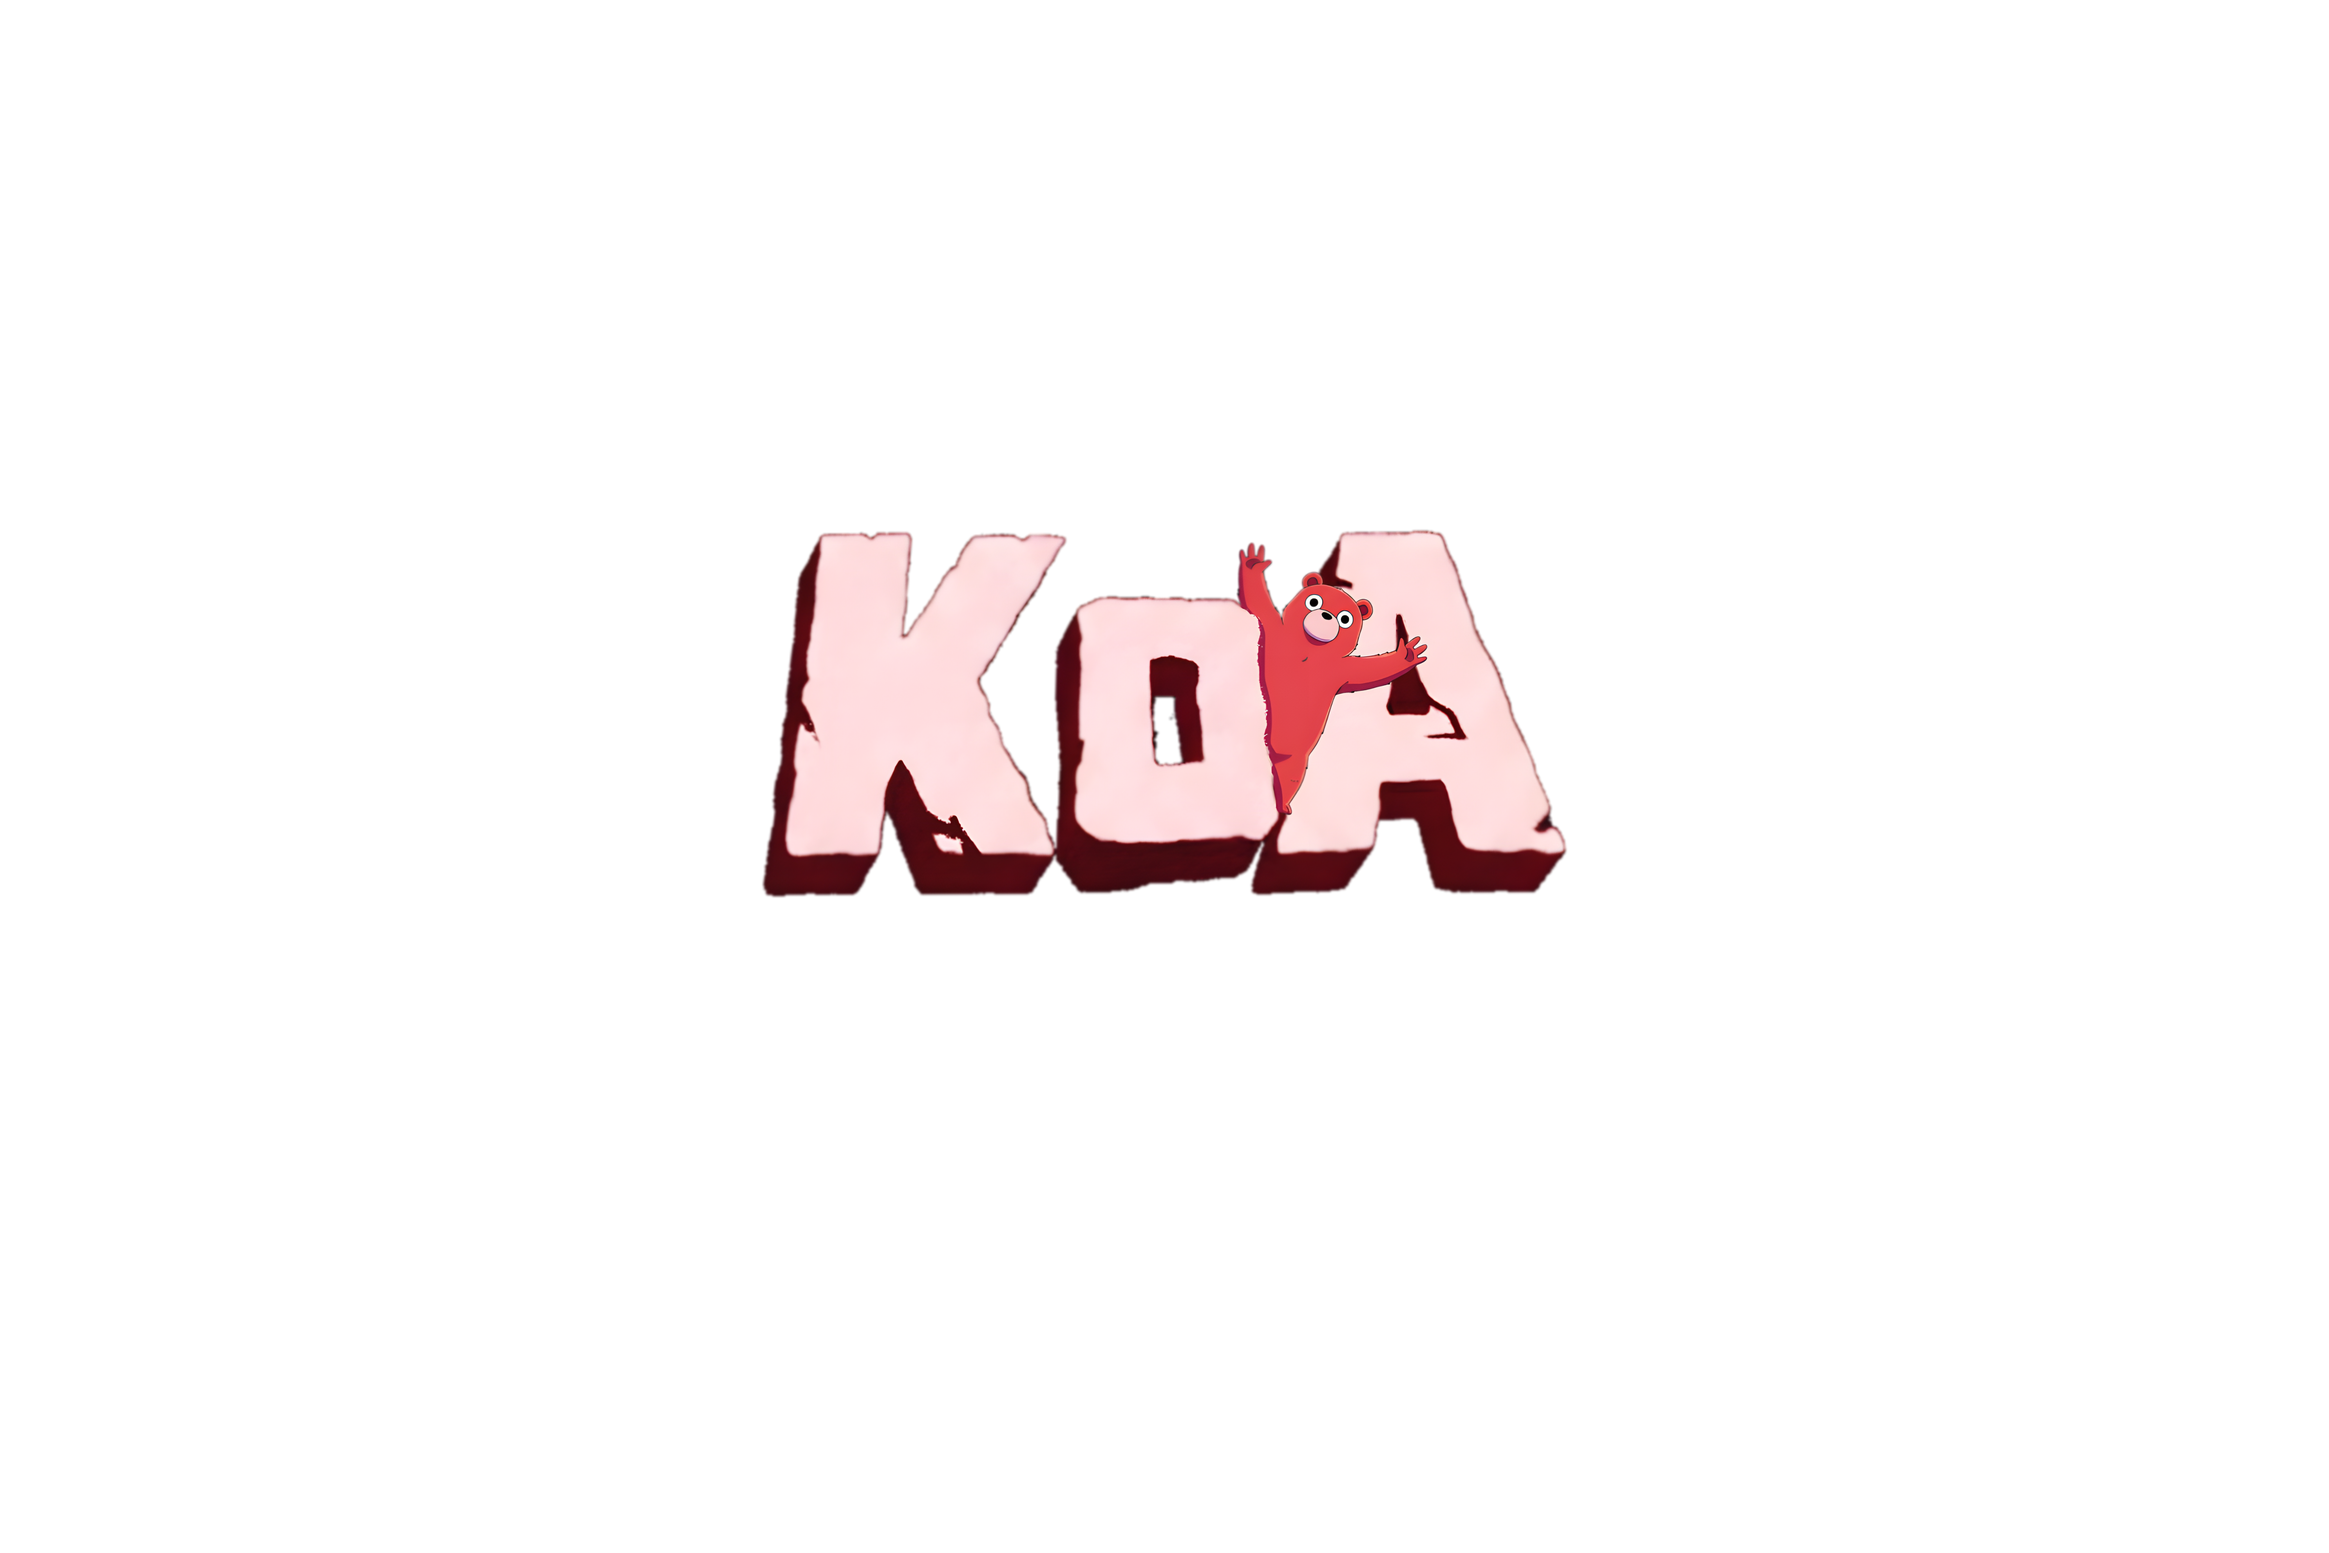
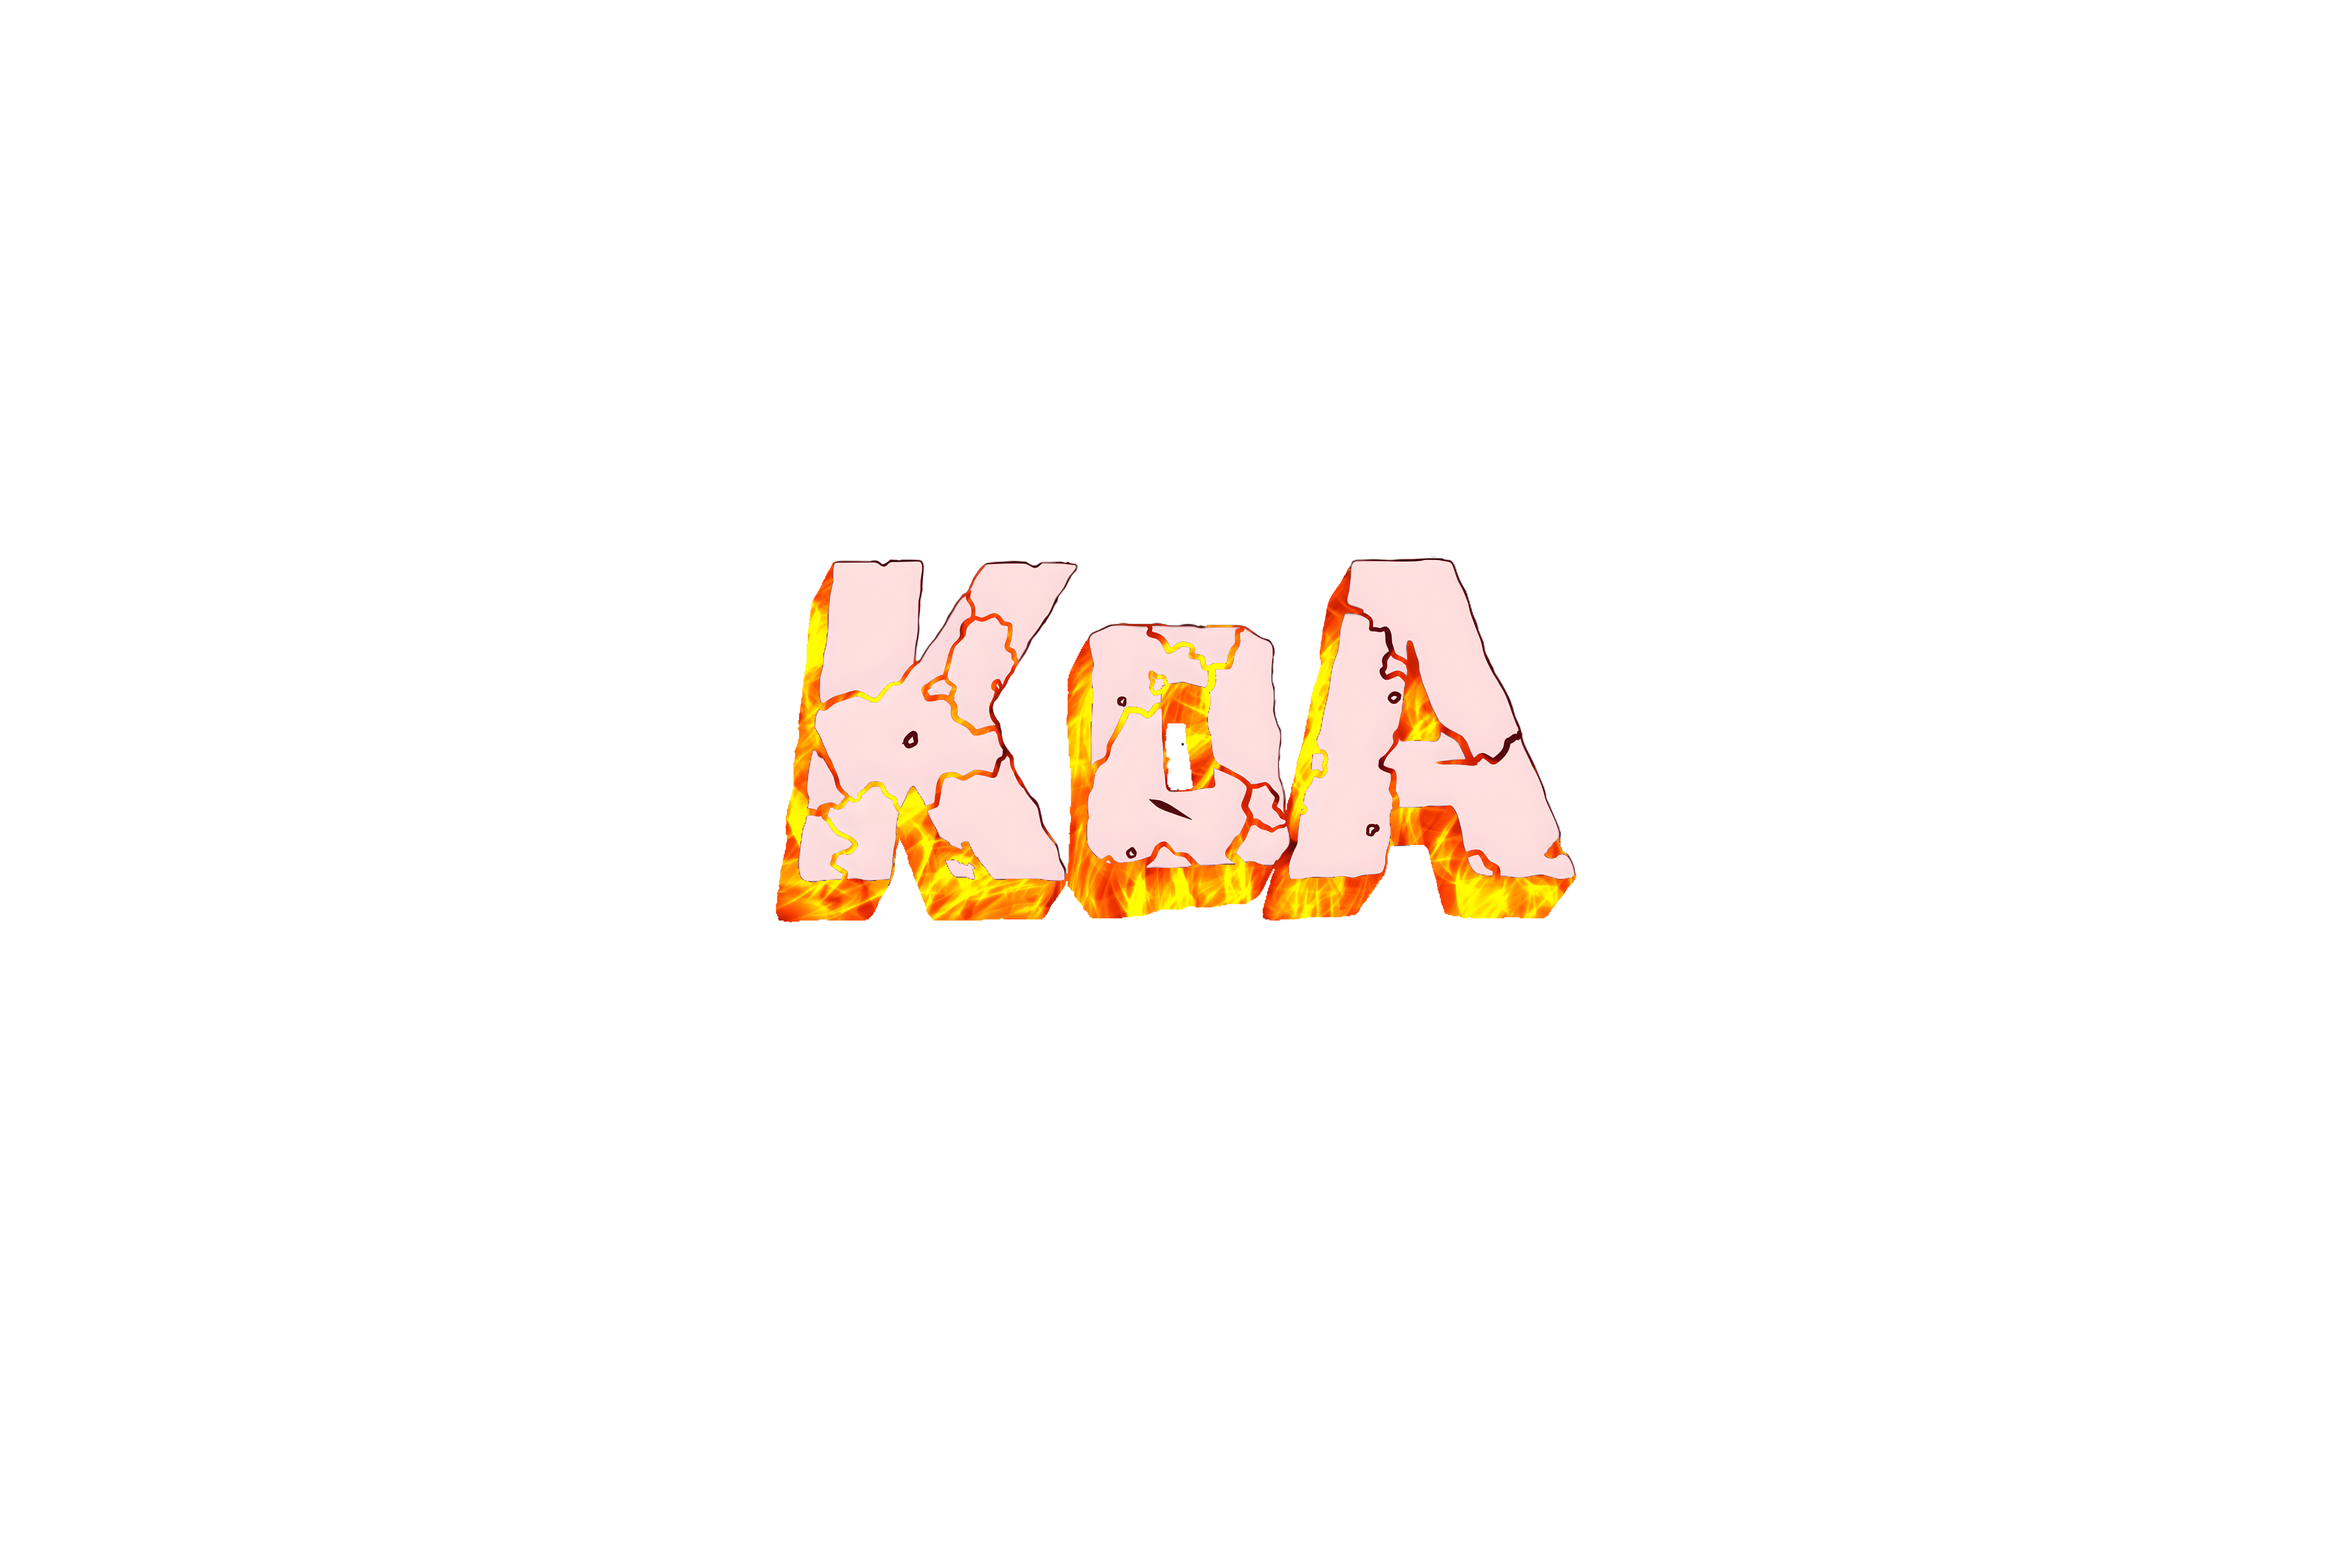
feat: Refactor Navbar, Marquee, and Preloader animation logic

Changed region(s): [[0.3125, 0.3427, 0.6875, 0.5919]]

diff --git a/src/components/Preloader.tsx b/src/components/Preloader.tsx
@@ -4,37 +4,47 @@ import { useEffect, useRef, useState } from "react";
 export default function Preloader() {
 	const [visible, setVisible] = useState(true);
 	const preloaderRef = useRef<HTMLDivElement>(null);
-	const contentRef = useRef<HTMLDivElement>(null);
 
 	useEffect(() => {
 		const preloader = preloaderRef.current;
 		if (!preloader) return;
 
-		const images = Array.from(
-			preloader.querySelectorAll("img.masked-image"),
-		) as HTMLImageElement[];
 		const letterContainers = Array.from(
 			preloader.querySelectorAll(".letter-container"),
 		) as HTMLElement[];
 
+		// Images to preload
+		const imageUrls = [
+			"/assets/masking/k.avif",
+			"/assets/masking/o.avif",
+			// A uses k.avif too
+		];
+
 		const loadImages = async () => {
-			const promises = images.map((img) => {
-				return new Promise<void>((resolve, reject) => {
-					if (img.complete) {
-						resolve();
-					} else {
-						img.onload = () => resolve();
-						img.onerror = reject;
-					}
+			const promises = imageUrls.map((src) => {
+				return new Promise<void>((resolve) => {
+					const img = new Image();
+					img.src = src;
+					img.onload = () => resolve();
+					img.onerror = () => resolve(); // Proceed even on error
 				});
 			});
-			return Promise.all(promises);
+
+			// Limit wait time to 1.5s max
+			const timeout = new Promise<void>((resolve) => setTimeout(resolve, 1500));
+
+			return Promise.race([Promise.all(promises), timeout]);
 		};
 
 		const startExitAnimation = () => {
 			console.log("Starting exit animation");
 
-			// Exit animation for B and K (slide up letters)
+			// Exit animation for B and K (slide up letters - using container transform)
+			// Wait, previous code targeted .masked-image for exit OR .type-a-text
+			// We want to animate the CONTENT out, or the CONTAINER?
+			// Original code animated the content (target.style.animation).
+			// If we replace animation, the loop stops and exit starts. Perfect.
+
 			const slideUpLetters = [letterContainers[0], letterContainers[2]];
 			slideUpLetters.forEach((container, index) => {
 				if (container) {
@@ -42,7 +52,10 @@ export default function Preloader() {
 						const target = container.querySelector(
 							".masked-image, .type-a-text",
 						) as HTMLElement;
-						if (target) target.style.animation = "exitUp 0.8s ease-in forwards";
+						if (target) {
+							// Override the infinite loop with exit animation
+							target.style.animation = "exitUp 0.8s ease-in forwards";
+						}
 					}, index * 100);
 				}
 			});
@@ -54,20 +67,18 @@ export default function Preloader() {
 					const target = centerLetter.querySelector(
 						".masked-image, .type-a-text",
 					) as HTMLElement;
-					if (target) target.style.animation = "exitDown 0.8s ease-in forwards";
+					if (target) {
+						target.style.animation = "exitDown 0.8s ease-in forwards";
+					}
 				}
 			}, 100);
 
-			// Hide preloader after exit animation completes + 0.5s delay
+			// Hide preloader after exit animation
 			setTimeout(() => {
 				if (preloaderRef.current) {
 					preloaderRef.current.classList.add("hidden");
-					// Allow removing from DOM after fade out
 					setTimeout(() => {
 						setVisible(false);
-						// Signal to main content to show?
-						// In React, we might just unmount.
-						// But maintaining "visible" class on main content is handled by CSS transition usually
 						const mainContent = document.getElementById("main-content");
 						if (mainContent) mainContent.classList.add("visible");
 					}, 500);
@@ -86,15 +97,29 @@ export default function Preloader() {
 				}, index * 200);
 			});
 
+			// Run loop for a set time (e.g., 3s) then exit
+			// User wants "infinite loop style". This usually means until load is done.
+			// Since this is a simulated preloader, let's give it a good loop time (e.g. 4s)
+			// or just kept original timing (2s + delays).
+
 			setTimeout(
 				() => {
 					startExitAnimation();
 				},
-				2000 + letterContainers.length * 200,
+				3500, // Slight increase to enjoy the loop
 			);
 		};
 
+		// Force visible start if something goes wrong
+		const safetyTimer = setTimeout(() => {
+			if (preloaderRef.current) {
+				console.log("Safety timer triggered");
+				startPreloader();
+			}
+		}, 2000);
+
 		loadImages().then(() => {
+			clearTimeout(safetyTimer);
 			startPreloader();
 		});
 	}, []);
@@ -108,22 +133,15 @@ export default function Preloader() {
 					{/* Huruf K */}
 					<div className="letter-container">
 						<div className="mask-letter mask-k">
-							<img
-								src="/assets/masking/k.avif"
-								alt="K"
-								className="masked-image"
-							/>
+							{/* Replaced img with div for background scrolling */}
+							<div className="masked-image" />
 						</div>
 					</div>
 
 					{/* Huruf O */}
 					<div className="letter-container">
 						<div className="mask-letter mask-o">
-							<img
-								src="/assets/masking/o.avif"
-								alt="O"
-								className="masked-image"
-							/>
+							<div className="masked-image" />
 						</div>
 					</div>
 

diff --git a/src/app/globals.css b/src/app/globals.css
@@ -80,48 +80,48 @@
 }
 
 /* Styling awal untuk semua gambar */
+/* Styling awal untuk semua gambar (Updated for Infinite Loop) */
 .masked-image {
     width: 100%;
     height: 100%;
-    object-fit: cover;
+    background-size: cover;
+        background-repeat: repeat-y;
     display: block;
-    animation: slideUp 1.5s ease-out forwards;
-    transform: translateY(100%);
-    transition: transform 0.3s ease, filter 0.3s ease;
+    /* Infinite Scroll Animation */
+        animation: textureScroll 3s linear infinite;
+        /* Start from below logic or just scroll? 
+               If we want "infinite loop style", we usually mean the texture is moving constantly.
+            */
 }
 
-.masked-image:hover {
-    transform: scale(1.05);
-    filter: brightness(1.1);
-}
-
-/* Animasi slide up untuk gambar */
-@keyframes slideUp {
+/* Animasi slide up untuk gambar - REPLACED with loop */
+@keyframes textureScroll {
     0% {
-        transform: translateY(100%);
-        opacity: 1;
+        background-position: 0 0;
     }
 
     100% {
-        transform: translateY(0);
-        opacity: 1;
+        background-position: 0 -100%;
+            /* Move up */
     }
 }
 
-/* Animasi slide down untuk huruf tengah */
-@keyframes slideDown {
+/* Animasi slide down untuk huruf tengah - REPLACED */
+@keyframes textureScrollReverse {
     0% {
-        transform: translateY(-100%);
-        opacity: 1;
+        background-position: 0 0;
     }
 
     100% {
-        transform: translateY(0);
-        opacity: 1;
+        background-position: 0 100%;
+            /* Move down */
     }
 }
 
-/* Animasi exit untuk huruf B dan K (keluar ke atas) */
+/* Animasi exit untuk huruf B dan K (keluar ke atas) - Keep exit logic separate if possible?
+   The script overrides animation property for exit. 
+   So we can set default animation here to scroll. 
+*/
 @keyframes exitUp {
     0% {
         transform: translateY(0);
@@ -134,7 +134,6 @@
     }
 }
 
-/* Animasi exit untuk huruf O (keluar ke bawah) */
 @keyframes exitDown {
     0% {
         transform: translateY(0);
@@ -149,21 +148,24 @@
 
 /* Delay animasi untuk setiap huruf */
 .letter-container:nth-child(1) .masked-image {
-    animation-delay: 0.2s;
+    background-image: url('/assets/masking/k.avif');
+        animation-delay: 0s;
 }
 
 /* Override khusus untuk huruf tengah (O) */
 .letter-container:nth-child(2) .masked-image {
-    animation: slideDown 1.5s ease-out forwards;
-    animation-delay: 0.4s;
-    transform: translateY(-100%);
-    opacity: 0;
-    position: relative;
-    z-index: 10003;
+    background-image: url('/assets/masking/o.avif');
+        animation: textureScrollReverse 3s linear infinite;
+        /* Move opposite direction for variety */
 }
 
 .letter-container:nth-child(3) .masked-image {
-    animation-delay: 0.6s;
+    /* If this is an img tag, we can't use bg-image. 
+               We must assume we will change JSX to divs. 
+               This CSS assumes divs.
+            */
+        background-image: url('/assets/masking/o.avif');
+        /* Fallback or specific? Code had img src */
 }
 
 /* Masking untuk huruf B */
@@ -212,42 +214,31 @@
     overflow: hidden;
     position: relative;
     z-index: 10002;
+    /* background: red; debug */
 }
 
 .type-a-text {
     display: block;
     font-family: 'Byrd Bold', sans-serif;
     font-size: 420px;
-    /* Slightly larger to compensate for erosion */
     line-height: 400px;
     margin-top: -40px;
     transform: scale(1.1);
-    /* Make it slightly larger/bolder feel */
-    /* Slight adjustment for font baseline */
     color: transparent;
     background-image: url('/assets/masking/k.avif');
     background-size: cover;
     background-position: center;
     -webkit-background-clip: text;
     background-clip: text;
-    background-repeat: no-repeat;
+    background-repeat: repeat-y;
 
     /* Animation setup */
     width: 100%;
     text-align: center;
     opacity: 1;
 
-    /* Definisikan posisi akhir (terlihat penuh) sebagai default */
-    /* Definisikan posisi awal background di bawah */
-    background-position: 0 400px;
-
-
-    /* Gunakan animasi background untuk entry */
-    /* Gunakan animasi background untuk entry */
-    animation: bgSlideUp 1.5s ease-out forwards;
-    animation-delay: 0.6s;
-    /* Match the delay of the 3rd letter */
-    /* Apply Grunge Filter */
+    /* Continuous Scroll */
+        animation: textureScroll 3s linear infinite;
     filter: url(#grunge-filter);
 }
 
